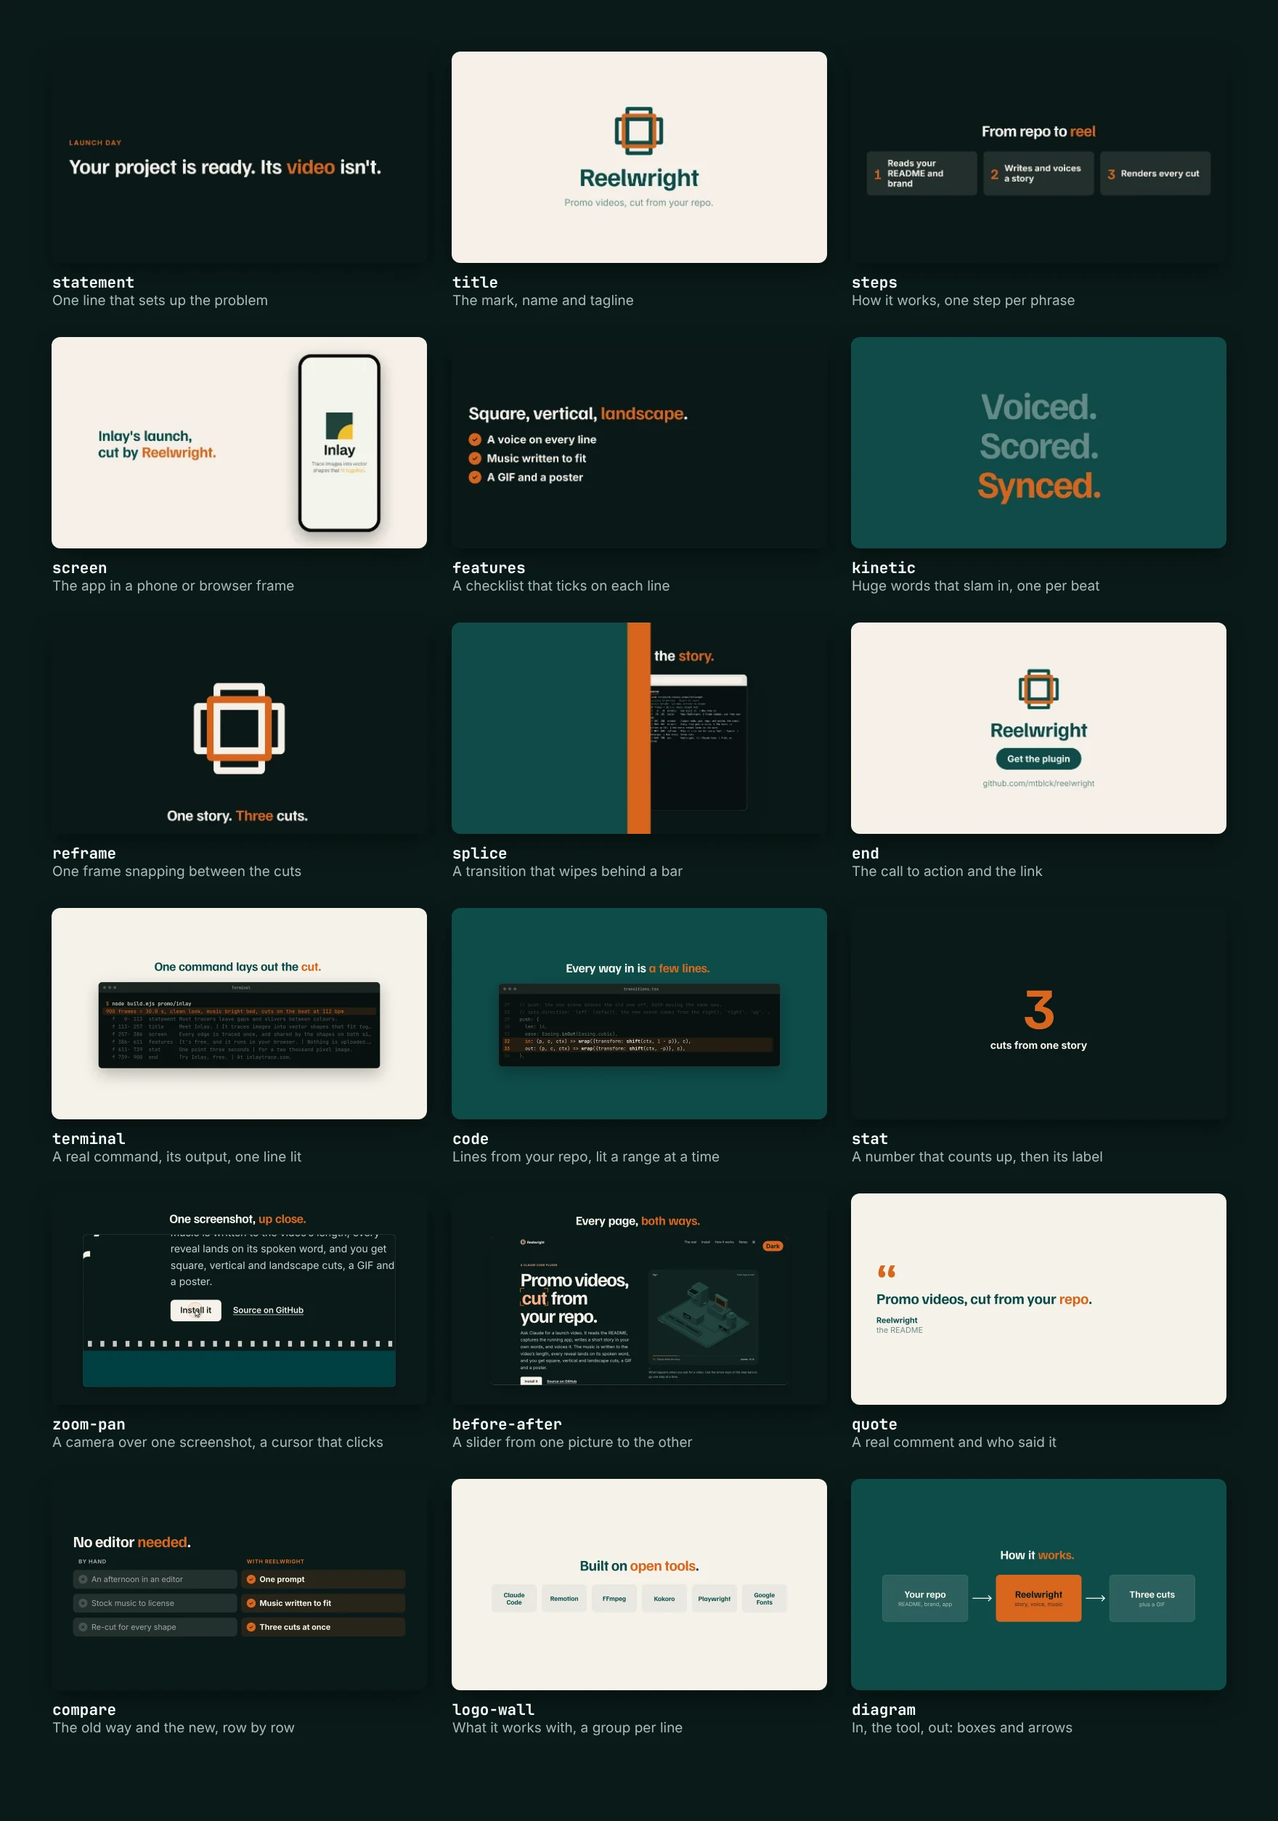
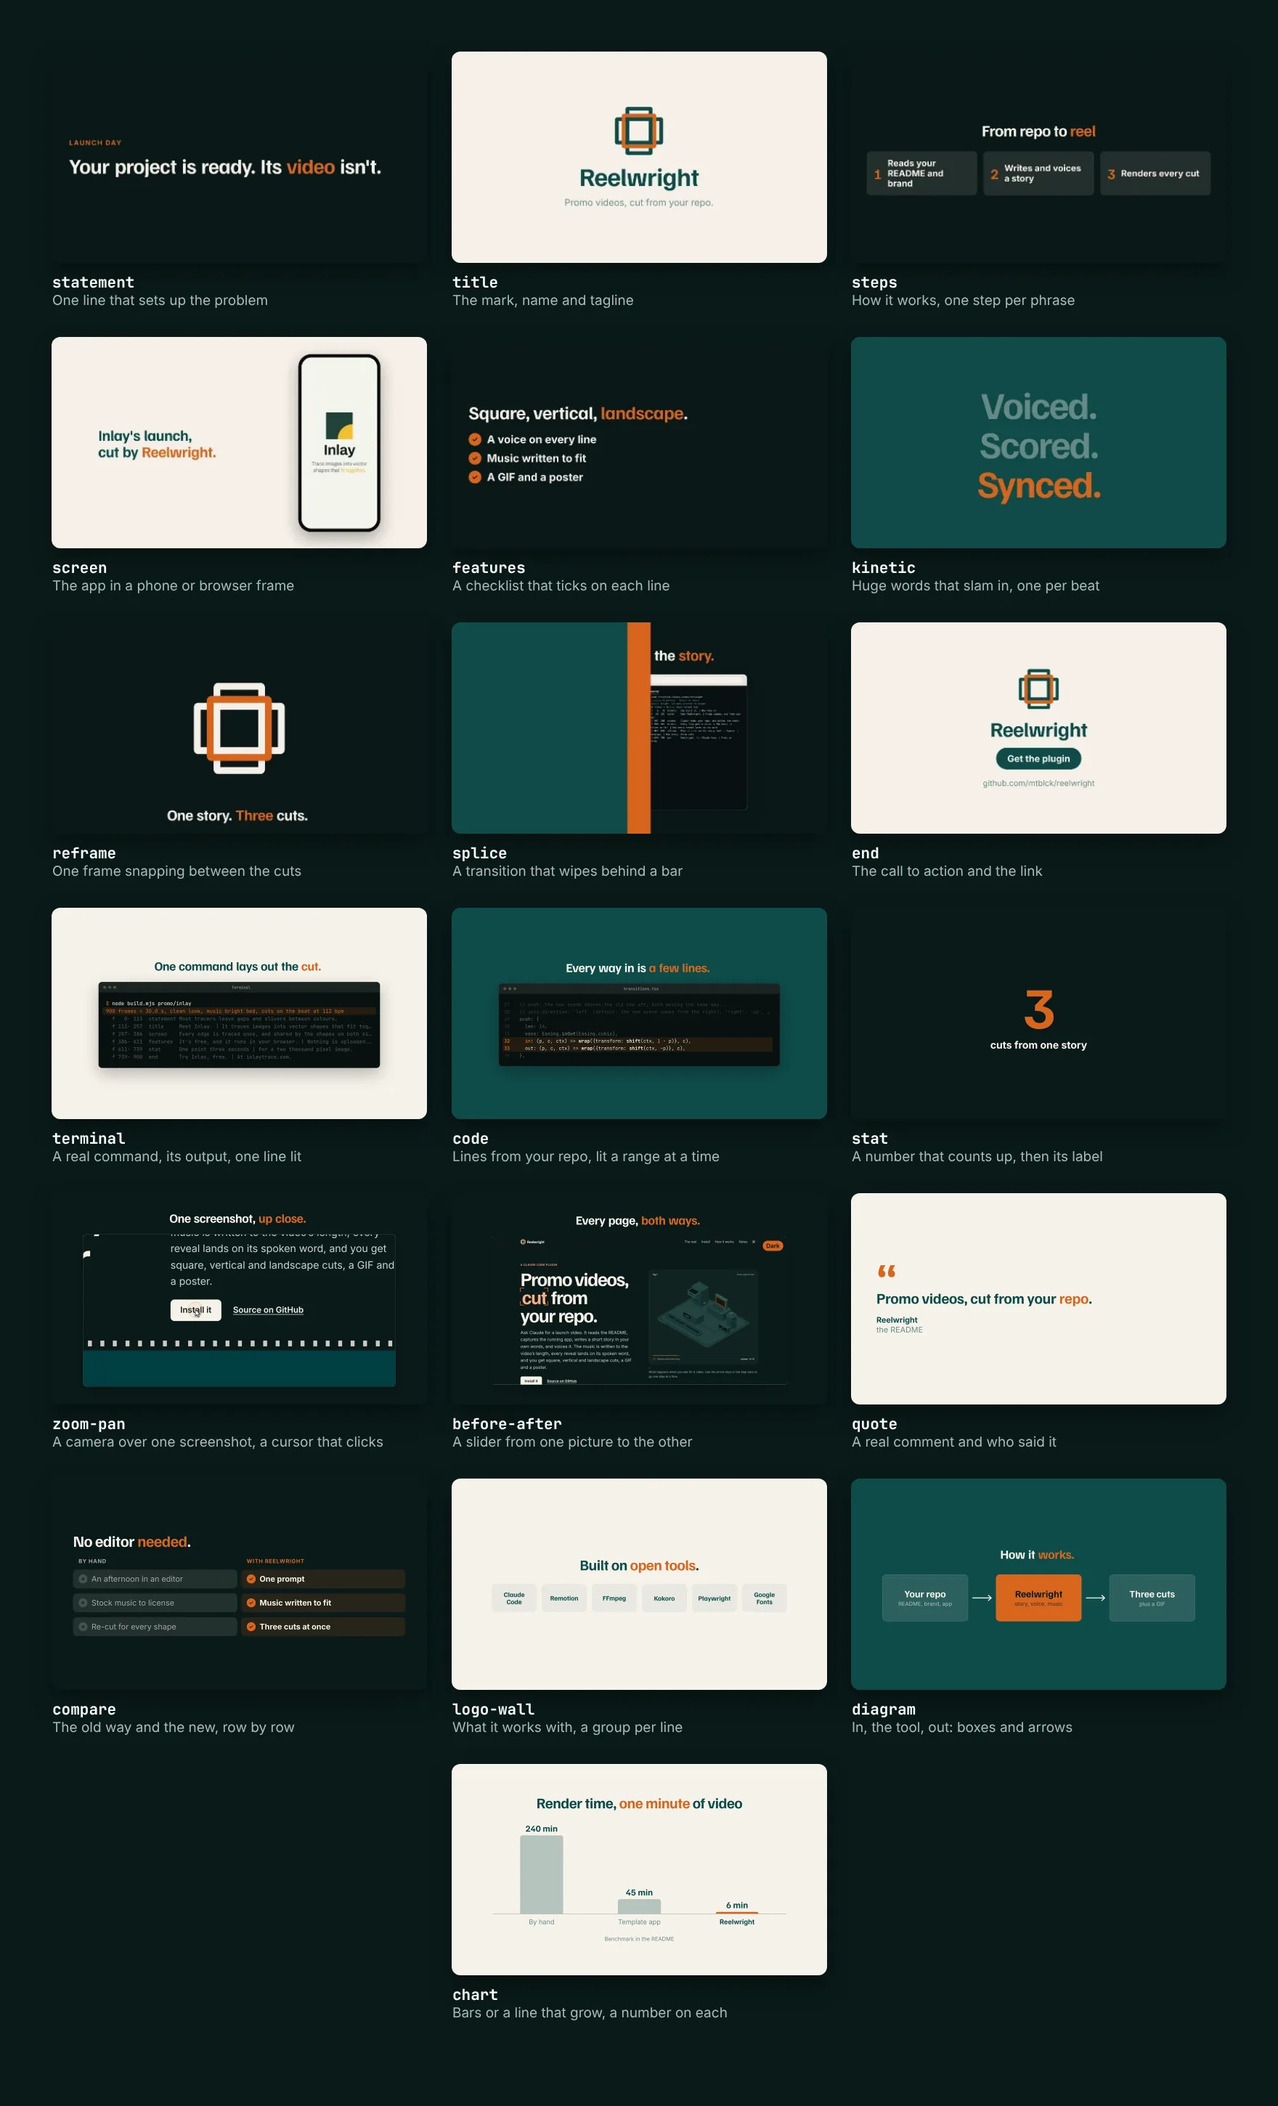
Chart scene: bars or a line that grow, one group per phrase
Fixes #61

Claude-Session: https://claude.ai/code/session_018HstUj4gPsUkfGPbrRowJA

diff --git a/skills/reelwright/template/src/proof.tsx b/skills/reelwright/template/src/proof.tsx
@@ -1,8 +1,9 @@
 import React from 'react';
 import {AbsoluteFill, Easing, Img, OffthreadVideo, interpolate, useCurrentFrame} from 'remotion';
 import type {Scene} from './types';
-import {Emph, asset, font, mix, rise, sceneColors, ts, useBrand, useLayout, usePop} from './ui';
-import {Words} from './scenes';
+import {Emph, asset, countUp, font, mix, rise, sceneColors, ts, useBrand, useLayout, usePop} from './ui';
+import {Typed, Words} from './scenes';
+import {useLook} from './looks';
 
 // Scenes that prove a claim: a before and after, a real quote, an old-way/new-way table, the logos of
 // what it works with, and a diagram of how it works. Quotes, names and numbers must be real (story.md).
@@ -212,4 +213,128 @@ const Arrow: React.FC<{at: number; across: boolean; len: number; c: C}> = ({at, 
   );
 };
 
-export const PROOF_SCENES = {'before-after': BeforeAfter, quote: Quote, compare: Compare, 'logo-wall': LogoWall, diagram: Diagram};
+// chart: numbers that grow, as bars or a line: a benchmark, growth over time, a before and after.
+// props: {data* ([{label, value}], 2 to 8; value a number or text with one in it: 1.3, "1.3 s", "12,000+"),
+// kind? ('bar' default, or 'line'), title?, highlight? (index in the accent; default the largest), source?}
+// reveals: 1 the title and the first group; the bars or points come in one group per phrase
+type Datum = {label: string; value: string | number};
+const num = (v: string | number) => {
+  const n = parseFloat(String(v).replace(/,/g, '').match(/[0-9]*\.?[0-9]+/)?.[0] ?? '');
+  return isFinite(n) ? n : 0;
+};
+export const Chart: React.FC<P> = ({scene, c}) => {
+  const b = useBrand();
+  const {u, width, height, vertical, landscape, tall} = useLayout();
+  const frame = useCurrentFrame();
+  const look = useLook();
+  const data: Datum[] = (scene.props.data ?? []).slice(0, 8);
+  const n = Math.max(1, data.length);
+  const vals = data.map((d) => num(d.value));
+  const max = Math.max(...vals, 0) || 1;
+  const hot: number = scene.props.highlight ?? vals.lastIndexOf(Math.max(...vals));
+  // one group per phrase, as even as they can be; inside a group each bar or point follows the last by 5 frames
+  const groups = Math.max(1, Math.min(scene.cues.length, n));
+  const at = (i: number) => {
+    const g = Math.floor((i * groups) / n);
+    return cue(scene, g) + (i - Math.ceil((g * n) / groups)) * 5;
+  };
+  const grow = (i: number, delay = 0) => interpolate(frame, [at(i) + delay, at(i) + delay + 22], [0, 1], {extrapolateLeft: 'clamp', extrapolateRight: 'clamp', easing: Easing.out(Easing.cubic)});
+  const t = usePop(cue(scene));
+  const title: string | undefined = scene.props.title;
+  const muted = mix(c.ink, c.bg, 0.72);
+
+  if (look.text === 'type' && scene.props.kind !== 'line') {
+    // a terminal prints bars of block characters, each growing to its length, the value after it
+    const cols = vertical ? 12 : landscape ? 28 : 16;
+    const labels = data.map((d) => String(d.label).slice(0, 14));
+    const L = Math.max(...labels.map((l) => l.length));
+    return (
+      <AbsoluteFill style={{justifyContent: 'center', padding: (vertical ? 80 : 110) * u, gap: 18 * u}}>
+        {title && <div style={{...font(b.display), fontSize: ts(56 * u), lineHeight: 1.3, marginBottom: 20 * u}}><Typed text={`# ${title.replace(/\*/g, '')}`} at={cue(scene)} color={c.quiet} accent={c.quiet} /></div>}
+        {data.map((d, i) => {
+          const g = grow(i);
+          return (
+            <div key={i} style={{...font(b.display), fontSize: ts((vertical ? 50 : 60) * u), lineHeight: 1.25, whiteSpace: 'pre', opacity: g > 0 ? 1 : 0}}>
+              <span style={{color: c.quiet}}>{labels[i].padEnd(L)} </span>
+              <span style={{color: i === hot ? b.accent : c.ink}}>{'█'.repeat(Math.round((cols * vals[i] * g) / max))}</span>
+              <span style={{color: i === hot ? b.accent : c.ink}}> {countUp(String(d.value), g)}</span>
+            </div>
+          );
+        })}
+        {scene.props.source && <div style={{...font(b.text), fontSize: ts(40 * u), lineHeight: 1.3, marginTop: 20 * u, color: c.quiet, opacity: Math.min(1, t * 1.4)}}>{`# ${scene.props.source}`}</div>}
+      </AbsoluteFill>
+    );
+  }
+
+  const pad = (vertical ? 70 : landscape ? 150 : 90) * u;
+  const W = Math.min(width - 2 * pad, (landscape ? 1500 : 940) * u);
+  const H = (vertical ? 760 : landscape ? 480 : 400 + tall * 0.8) * u;
+  // burned-in captions sit low in the frame (a quarter up in the vertical cut): keep the chart above them
+  const under = Math.max(pad, height * (vertical ? 0.3 : 0.15));
+  const slot = W / n;
+  const vs = (n <= 4 ? 46 : n <= 6 ? 40 : 34) * (vertical ? 1.1 : 1) * u; // value size
+  const top = H - vs * 1.7; // the tallest bar or point, with room for its value over it
+  const x = (i: number) => slot * (i + 0.5);
+  const y = (i: number) => H - (vals[i] / max) * top;
+  const value = (i: number, bottom: number, g: number) => (
+    <div style={{...font(b.display), position: 'absolute', left: x(i), bottom, transform: 'translateX(-50%)', whiteSpace: 'nowrap', fontSize: ts(vs), lineHeight: 1, color: c.ink, opacity: Math.min(1, g * 3)}}>{countUp(String(data[i].value), g)}</div>
+  );
+
+  let plot: React.ReactNode;
+  if (scene.props.kind === 'line') {
+    const seg = data.map((_, i) => (i ? Math.hypot(x(i) - x(i - 1), y(i) - y(i - 1)) : 0));
+    const total = seg.reduce((a, s) => a + s, 0) || 1;
+    const drawn = seg.reduce((a, s, i) => a + s * (i ? grow(i) : 0), 0);
+    // the shaded area follows the head of the line
+    let head = x(0);
+    for (let i = 1; i < n; i++) if (grow(i) > 0) head = x(i - 1) + (x(i) - x(i - 1)) * grow(i);
+    const d = data.map((_, i) => `${i ? 'L' : 'M'}${x(i)} ${y(i)}`).join(' ');
+    plot = (
+      <>
+        <svg width={W} height={H} style={{position: 'absolute', inset: 0, overflow: 'visible'}}>
+          <defs><clipPath id={`area-${scene.start}`}><rect x={0} y={0} width={head} height={H} /></clipPath></defs>
+          <path d={`${d} L${x(n - 1)} ${H} L${x(0)} ${H} Z`} fill={c.ink} opacity={0.07} clipPath={`url(#area-${scene.start})`} />
+          <path d={d} fill="none" stroke={c.ink} strokeWidth={6 * u} strokeLinecap="round" strokeLinejoin="round" strokeDasharray={total} strokeDashoffset={total - drawn} />
+          {data.map((_, i) => {
+            const p = grow(i, i ? 10 : 0);
+            return <circle key={i} cx={x(i)} cy={y(i)} r={(i === hot ? 17 : 11) * u * p} fill={i === hot ? b.accent : c.bg} stroke={i === hot ? b.accent : c.ink} strokeWidth={5 * u} opacity={p > 0 ? 1 : 0} />;
+          })}
+        </svg>
+        {data.map((_, i) => <React.Fragment key={i}>{value(i, H - y(i) + 30 * u, grow(i, i ? 10 : 0))}</React.Fragment>)}
+      </>
+    );
+  } else {
+    const bw = Math.min(slot * 0.62, 220 * u);
+    const r = Math.min(bw / 4, (b.radius ?? 20) * u * 0.6);
+    plot = data.map((_, i) => {
+      const g = grow(i);
+      const h = (vals[i] / max) * top * g;
+      return (
+        <React.Fragment key={i}>
+          <div style={{position: 'absolute', bottom: 0, left: x(i) - bw / 2, width: bw, height: h, borderRadius: `${r}px ${r}px 0 0`, background: i === hot ? b.accent : muted}} />
+          {value(i, h + 14 * u, g)}
+        </React.Fragment>
+      );
+    });
+  }
+
+  return (
+    <AbsoluteFill style={{alignItems: 'center', justifyContent: 'center', padding: `${pad}px ${pad}px ${under}px`, gap: 50 * u}}>
+      {title && <div style={{...font(b.display), ...rise(t, u), fontSize: ts(76 * u), lineHeight: 1.05, letterSpacing: -1.4 * u, color: c.ink, textAlign: 'center', maxWidth: 1400 * u}}><Emph text={title} color={b.accent} /></div>}
+      <div style={{width: W}}>
+        <div style={{position: 'relative', width: W, height: H}}>
+          {plot}
+          <div style={{position: 'absolute', left: 0, right: 0, bottom: -1.5 * u, height: 3 * u, background: muted, opacity: Math.min(1, t * 1.4)}} />
+        </div>
+        <div style={{display: 'flex', marginTop: 20 * u}}>
+          {data.map((d, i) => (
+            <div key={i} style={{...font(b.text), width: slot, padding: `0 ${6 * u}px`, boxSizing: 'border-box', textAlign: 'center', fontSize: ts((n <= 4 ? 34 : 28) * (vertical ? 1.1 : 1) * u), lineHeight: 1.2, fontWeight: i === hot ? 700 : 500, color: i === hot ? c.ink : c.quiet, opacity: Math.min(1, grow(i) * 3)}}>{d.label}</div>
+          ))}
+        </div>
+      </div>
+      {scene.props.source && <div style={{...font(b.text), fontSize: ts(28 * u), color: c.quiet, opacity: Math.min(1, t * 1.4)}}>{scene.props.source}</div>}
+    </AbsoluteFill>
+  );
+};
+
+export const PROOF_SCENES = {'before-after': BeforeAfter, quote: Quote, compare: Compare, 'logo-wall': LogoWall, diagram: Diagram, chart: Chart};

diff --git a/skills/reelwright/template/src/scenes.tsx b/skills/reelwright/template/src/scenes.tsx
@@ -2,7 +2,7 @@ import React from 'react';
 import {AbsoluteFill, Img, OffthreadVideo, interpolate, useCurrentFrame, useVideoConfig} from 'remotion';
 import {CursorLayer, coverMap} from './product';
 import type {Scene} from './types';
-import {Emph, Scribble, asset, font, mix, rise, sceneColors, ts, useBrand, useFade, useLayout, usePop} from './ui';
+import {Emph, Scribble, asset, countUp, font, mix, rise, sceneColors, ts, useBrand, useFade, useLayout, usePop} from './ui';
 import {useLook, useTilt} from './looks';
 
 type C = ReturnType<typeof sceneColors>;
@@ -225,11 +225,8 @@ export const Stat: React.FC<P> = ({scene, c}) => {
   const k = vertical ? 1.2 : 1;
   const frame = useCurrentFrame();
   const raw: string = String(scene.props.value);
-  const n = parseFloat(raw.replace(/[^0-9.]/g, ''));
   const t = interpolate(frame, [cue(scene), cue(scene) + 26], [0, 1], {extrapolateLeft: 'clamp', extrapolateRight: 'clamp'});
-  const dec = (raw.match(/[0-9]\.([0-9]+)/)?.[1] ?? '').length;
-  const now = n * (1 - Math.pow(1 - t, 3));
-  const shown = isFinite(n) && n > 0 ? raw.replace(/[0-9][0-9,.]*/, now.toLocaleString('en-US', {minimumFractionDigits: dec, maximumFractionDigits: dec})) : raw;
+  const shown = countUp(raw, t);
   const l = usePop(cue(scene, 1));
   const look = useLook();
   if (look.text === 'type')

diff --git a/skills/reelwright/template/src/ui.tsx b/skills/reelwright/template/src/ui.tsx
@@ -44,6 +44,15 @@ export const useFade = (at: number, len = 8) => {
 };
 export const rise = (p: number, u: number, d = 40) => ({opacity: Math.min(1, p * 1.4), transform: `translateY(${(1 - p) * d * u}px)`});
 
+// "12,000+" at t (0..1, eased here) -> "8,437+": the first number in a value counts up, the rest stays.
+// A value with no number above zero is shown as it is.
+export const countUp = (raw: string, t: number) => {
+  const n = parseFloat(raw.replace(/,/g, '').match(/[0-9]*\.?[0-9]+/)?.[0] ?? '');
+  const dec = (raw.match(/[0-9]\.([0-9]+)/)?.[1] ?? '').length;
+  const now = n * (1 - Math.pow(1 - Math.min(1, Math.max(0, t)), 3));
+  return isFinite(n) && n > 0 ? raw.replace(/[0-9][0-9,.]*/, now.toLocaleString('en-US', {minimumFractionDigits: dec, maximumFractionDigits: dec})) : raw;
+};
+
 // "Fill your *calendar*" -> the starred words in the accent colour.
 export const Emph: React.FC<{text: string; color: string}> = ({text, color}) => {
   const marker = useLook().marker;

diff --git a/skills/reelwright/template/src/types.ts b/skills/reelwright/template/src/types.ts
@@ -21,7 +21,7 @@ export type Brand = {
 };
 
 export type Scene = {
-  type: 'title' | 'statement' | 'screen' | 'features' | 'stat' | 'steps' | 'end' | 'kinetic' | 'reframe' | 'terminal' | 'code' | 'zoom-pan' | 'before-after' | 'quote' | 'compare' | 'logo-wall' | 'diagram';
+  type: 'title' | 'statement' | 'screen' | 'features' | 'stat' | 'steps' | 'end' | 'kinetic' | 'reframe' | 'terminal' | 'code' | 'zoom-pan' | 'before-after' | 'quote' | 'compare' | 'logo-wall' | 'diagram' | 'chart';
   start: number; // frame
   dur: number; // frames
   enter: string; // a key of TRANSITIONS in transitions.tsx: cut, slide, fade, zoom, splice, push

diff --git a/skills/reelwright/references/story.md b/skills/reelwright/references/story.md
@@ -53,11 +53,20 @@ Each phrase in `say` starts the next reveal. Give a scene as many phrases as it 
 | `compare` | `rows`* (2 to 4 `[old, new]` pairs), `title`, `headers` (default `["Before", "With <name>"]`) | 1: the title, headers and first row; then one row per phrase |
 | `logo-wall` | `logos`* (4 to 12 `{"image", "name"}`; without an image the name shows), `title` | the logos come in one group per phrase |
 | `diagram` | `nodes`* (2 to 4: `"label"` or `{"label", "sub"}`; what goes in, the tool, what comes out), `focus` (the node in the accent, default the middle one), `caption` | 1: the first node; then each phrase draws an arrow and the next node |
+| `chart` | `data`* (2 to 8 `{"label", "value"}`; a value is a number or text with one in it: `1.3`, `"1.3 s"`, `"12,000+"`), `kind` (`bar`, default, or `line`), `title`, `highlight` (the index in the accent, default the largest), `source` (where the numbers are from, shown small under the chart) | 1: the title and the first group; the bars or points come in one group per phrase, as even as they can be, each value counting up. Bars start from zero, so the heights are honest |
 | `end` | `button`*, `url` (default brand url), `stinger` (one short line after the card: a cut to dark, a beat of silence, then the line slams in with a hit; adds 1.7 s, and the music ends before it) | 1: mark, name and button; 2: the button is pressed and the URL appears |
 
 Screen captures: a phone clip from `capture.mjs --device phone --clip` fits the `phone` frame; a desktop screenshot fits `browser`. Videos play muted.
 
-**Proof is real.** A `quote` is someone's actual words, copied exactly, with where they said it (an issue, a review, a post); a `stat` or `compare` row is a number or fact you can point to in the repo, its README or `gh api` (stars, downloads, benchmark output). If there's nothing real to quote, leave the scene out; never write a testimonial.
+**Proof is real.** A `quote` is someone's actual words, copied exactly, with where they said it (an issue, a review, a post); a `stat`, `chart` or `compare` row is a number or fact you can point to in the repo, its README or `gh api` (stars, downloads, benchmark output). If there's nothing real to quote, leave the scene out; never write a testimonial.
+
+A `chart` from a benchmark, one bar per phrase:
+
+```json
+{"type": "chart", "bg": "paper", "title": "Render time, *one minute* of video", "source": "Benchmark in the README",
+ "data": [{"label": "By hand", "value": "240 min"}, {"label": "Template app", "value": "45 min"}, {"label": "Reelwright", "value": "6 min"}],
+ "highlight": 2, "say": ["Cutting a minute by hand takes hours.", "A template app, most of an hour.", "Reelwright, six minutes."]}
+```
 
 **Cursor** (`screen` and `zoom-pan`): `cursor` is one target per phrase, `[x, y]` as fractions of the picture, or `null` for none. The cursor glides in from the lower right to each target as its phrase starts and clicks it (with a ripple and a click) two-thirds of a second later. It follows the picture as the camera moves. Find targets by opening the screenshot and measuring: a button at 1195, 598 in a 2000 x 1250 picture is `[0.6, 0.48]`.
 
@@ -109,7 +118,7 @@ the cut runs well over.
 
 **Tool explainer** (20 to 30 s): `statement` the job it does (dark) → `title` → `steps` input, what it does, output → `screen` the result (dark) → `end`.
 
-**Dev tool** (20 to 30 s, no app to film): `statement` the pain (dark) → `terminal` a real run, the line that matters highlighted → `code` the few lines that make it work (dark) → `stat` or `features` → `end`. Pairs with the `terminal` look.
+**Dev tool** (20 to 30 s, no app to film): `statement` the pain (dark) → `terminal` a real run, the line that matters highlighted → `code` the few lines that make it work (dark) → `stat`, `chart` (a benchmark) or `features` → `end`. Pairs with the `terminal` look.
 
 **Hype** (20 to 30 s): `kinetic` the hook (two words, the second on `accent`) → `title` (enter `splice`) → `screen` it at work → `kinetic` with `stack` and `accelerate`, three or four one-word beats → `reframe` or `stat` → `end`, with a `stinger` if there's a good last line. Try `"music": {"end": "tapestop"}`.
 

diff --git a/README.md b/README.md
@@ -101,13 +101,13 @@ brand and a way in: `cut`, `slide`, `fade`, `zoom`, `splice`, `push`, `mask`, `w
 <p align="center">
   <picture>
     <source media="(prefers-color-scheme: dark)" srcset=".github/readme/scenes-dark.webp" />
-    <img src=".github/readme/scenes-light.webp" alt="Eighteen stills, one for each move: statement, title, steps, screen, features, kinetic, reframe, the splice transition, end, terminal, code, stat, zoom-pan (a screenshot up close with a cursor on a button), before-after (a light and dark page), quote, compare (by hand against with Reelwright), logo-wall and diagram (repo, Reelwright, three cuts)" width="880" />
+    <img src=".github/readme/scenes-light.webp" alt="Nineteen stills, one for each move: statement, title, steps, screen, features, kinetic, reframe, the splice transition, end, terminal, code, stat, zoom-pan (a screenshot up close with a cursor on a button), before-after (a light and dark page), quote, compare (by hand against with Reelwright), logo-wall, diagram (repo, Reelwright, three cuts) and chart (render time as bars, Reelwright's in orange)" width="880" />
   </picture>
 </p>
 
 `terminal` and `code` are for projects with no app to film: a real command's output, recorded by
 `scripts/term.mjs`, and lines from a file in the repo. `zoom-pan` walks a camera over one screenshot, and a cursor
-can click through it. The proof scenes (`quote`, `compare`, `before-after`, `logo-wall`) only take real material. Every scene, its props and the
+can click through it. The proof scenes (`quote`, `compare`, `before-after`, `logo-wall`, `chart`) only take real material. Every scene, its props and the
 story templates (App launch, Feature demo, Tool explainer, Dev tool and Hype) are in
 [`references/story.md`](skills/reelwright/references/story.md).
 

diff --git a/CHANGELOG.md b/CHANGELOG.md
@@ -18,6 +18,9 @@ version with the date and bumps `plugin.json` to match.
 - A `portrait` cut, 1080 × 1350 (4:5), for Instagram and LinkedIn feeds: `render.mjs --formats portrait`. It lays
   out like square with room to spare and has captions on by default; `4:5` also works as a `reframe` shape and a
   `mask` frame ([#68](https://github.com/mtblck/reelwright/pull/68)).
+- A `chart` scene: bars or a line that grow one group per phrase, each value counting up, the highlighted bar or
+  point in the accent, with an optional `source` line. In the `terminal` look the bars print as block characters
+  ([#69](https://github.com/mtblck/reelwright/pull/69)).
 - Named targets: a `box` step in capture.mjs records where an element sits on a screenshot, and `cursor` and
   `zoom-pan` `focus` can name it (`"cursor": ["Export button"]`) instead of giving coordinates
   ([#67](https://github.com/mtblck/reelwright/pull/67)).
